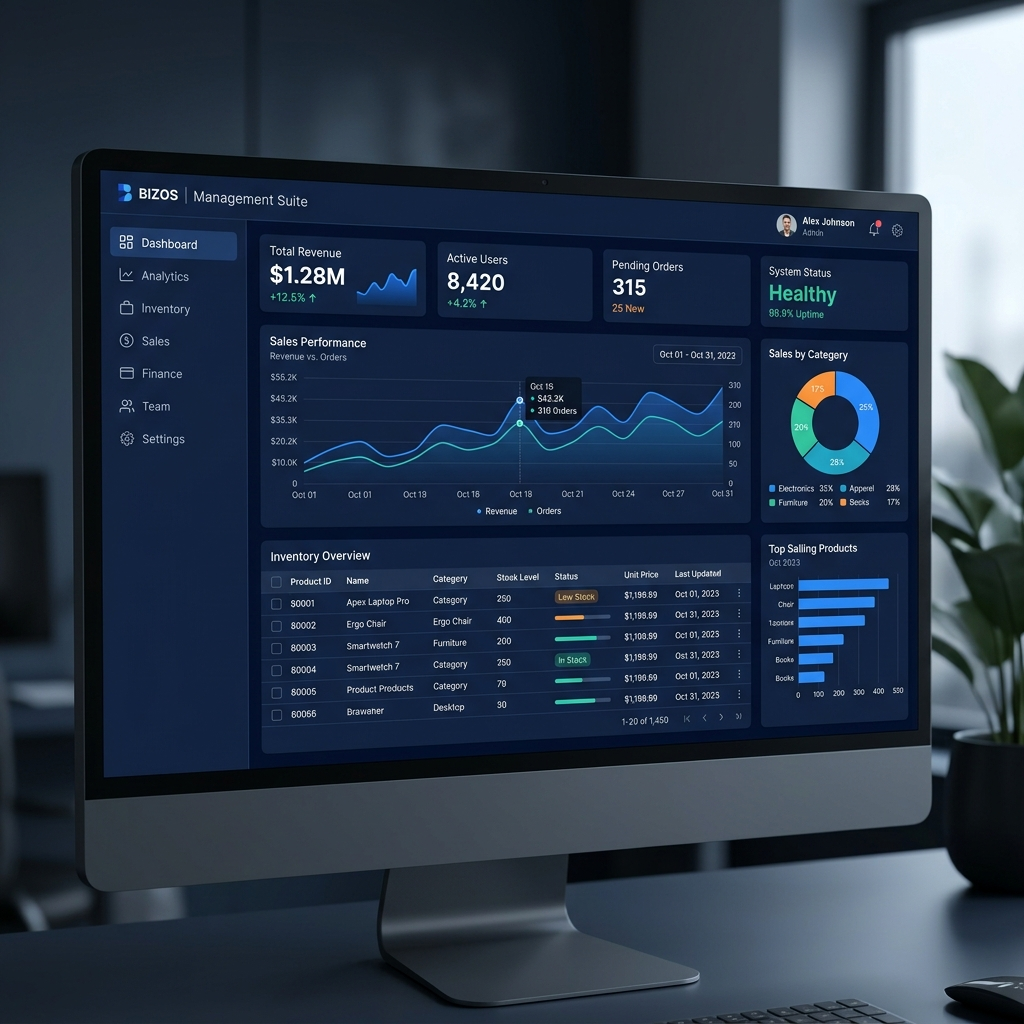
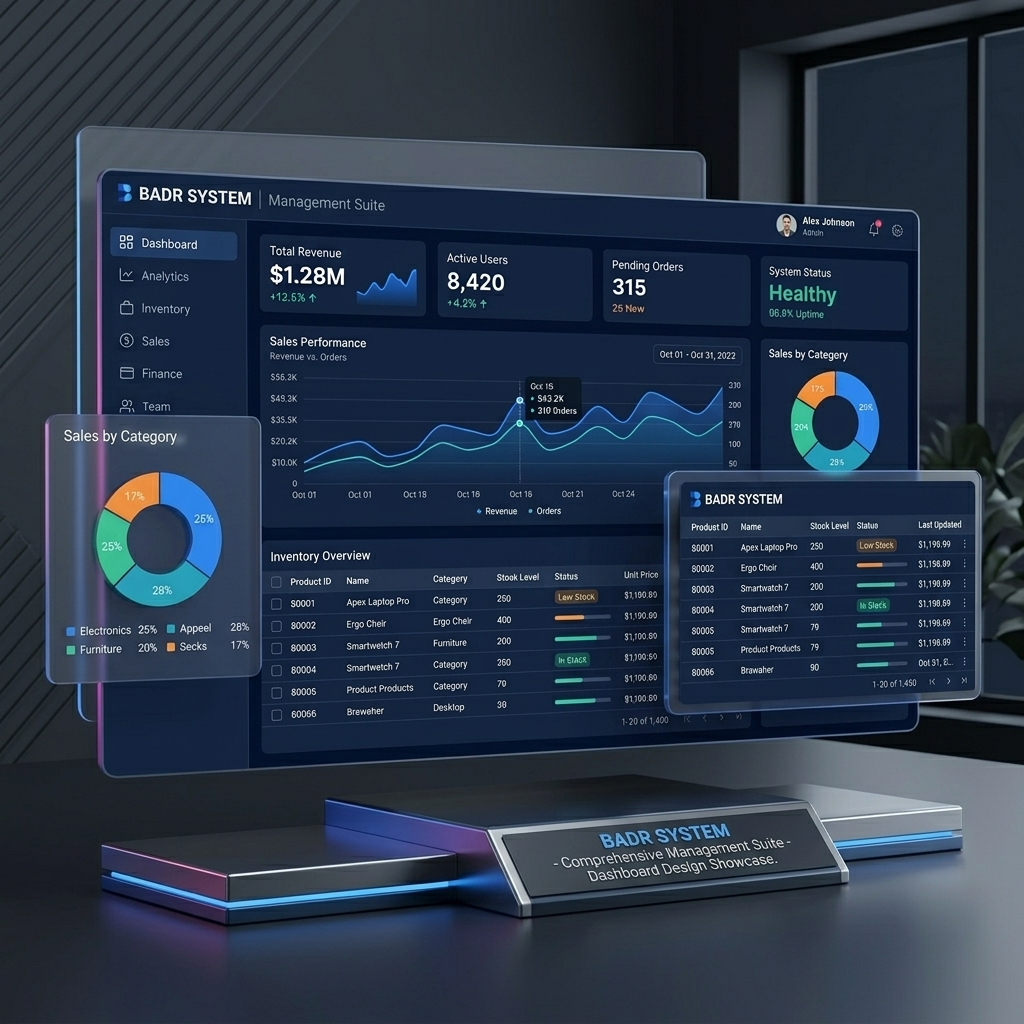
feat: upgrade technical skills section and update project showcases

diff --git a/index.html b/index.html
@@ -231,51 +231,64 @@
             <span>Expertise</span>
             <h2>Technical Skills</h2>
         </div>
-        <div class="skills-container reveal">
-            <div class="skill-card">
-                <i data-lucide="smartphone"></i>
-                <h3>Flutter Development</h3>
-                <p style="font-size: 0.8rem; color: var(--text-dim); margin-top: 0.5rem;">Android, iOS & Desktop</p>
+        <div class="skills-grid reveal">
+            <!-- Mobile Development -->
+            <div class="skill-category">
+                <h3><i data-lucide="smartphone"></i> Mobile & Frontend</h3>
+                <div class="skill-items">
+                    <div class="skill-item" data-color="#00f2ff">
+                        <i data-lucide="zap"></i>
+                        <span>Flutter</span>
+                    </div>
+                    <div class="skill-item" data-color="#00f2ff">
+                        <i data-lucide="code"></i>
+                        <span>Dart</span>
+                    </div>
+                    <div class="skill-item" data-color="#7000ff">
+                        <i data-lucide="sparkles"></i>
+                        <span>Animations</span>
+                    </div>
+                </div>
             </div>
-            <div class="skill-card">
-                <i data-lucide="code-2"></i>
-                <h3>Dart</h3>
-                <p style="font-size: 0.8rem; color: var(--text-dim); margin-top: 0.5rem;">OOP, Asynchronous Programming</p>
+
+            <!-- Architecture & State -->
+            <div class="skill-category">
+                <h3><i data-lucide="layers"></i> Architecture</h3>
+                <div class="skill-items">
+                    <div class="skill-item" data-color="#ff8c00">
+                        <i data-lucide="box"></i>
+                        <span>BLoC / Provider</span>
+                    </div>
+                    <div class="skill-item" data-color="#ff8c00">
+                        <i data-lucide="shield-check"></i>
+                        <span>Clean Architecture</span>
+                    </div>
+                    <div class="skill-item" data-color="#ff8c00">
+                        <i data-lucide="test-tube"></i>
+                        <span>Unit/Widget Tests</span>
+                    </div>
+                </div>
             </div>
-            <div class="skill-card">
-                <i data-lucide="layers"></i>
-                <h3>State Management</h3>
-                <p style="font-size: 0.8rem; color: var(--text-dim); margin-top: 0.5rem;">BLoC, Provider</p>
+
+            <!-- Backend & AI -->
+            <div class="skill-category">
+                <h3><i data-lucide="database"></i> Backend & AI</h3>
+                <div class="skill-items">
+                    <div class="skill-item" data-color="#3ecf8e">
+                        <i data-lucide="database"></i>
+                        <span>Supabase / Firebase</span>
+                    </div>
+                    <div class="skill-item" data-color="#3ecf8e">
+                        <i data-lucide="server"></i>
+                        <span>REST APIs / Dio</span>
+                    </div>
+                    <div class="skill-item" data-color="#00f2ff">
+                        <i data-lucide="cpu"></i>
+                        <span>TFLite AI</span>
+                    </div>
+                </div>
             </div>
-            <div class="skill-card">
-                <i data-lucide="sparkles"></i>
-                <h3>Animations & UI UX</h3>
-                <p style="font-size: 0.8rem; color: var(--text-dim); margin-top: 0.5rem;">Hero, CustomPaint, Liquid</p>
-            </div>
-            <div class="skill-card">
-                <i data-lucide="database"></i>
-                <h3>Supabase / Firebase</h3>
-                <p style="font-size: 0.8rem; color: var(--text-dim); margin-top: 0.5rem;">BaaS, Auth, Realtime DB</p>
-            </div>
-            <div class="skill-card">
-                <i data-lucide="server"></i>
-                <h3>REST APIs / Dio</h3>
-                <p style="font-size: 0.8rem; color: var(--text-dim); margin-top: 0.5rem;">JSON, Interceptors, CRUD</p>
-            </div>
-            <div class="skill-card">
-                <i data-lucide="bell"></i>
-                <h3>Push Notifications</h3>
-                <p style="font-size: 0.8rem; color: var(--text-dim); margin-top: 0.5rem;">OneSignal, Firebase FCM</p>
-            </div>
-            <div class="skill-card">
-                <i data-lucide="git-branch"></i>
-                <h3>Git & GitHub</h3>
-                <p style="font-size: 0.8rem; color: var(--text-dim); margin-top: 0.5rem;">Version Control, CI/CD</p>
-            </div>
-            <div class="skill-card">
-                <i data-lucide="cpu"></i>
-                <h3>TFLite Integration</h3>
-                <p style="font-size: 0.8rem; color: var(--text-dim); margin-top: 0.5rem;">On-device Machine Learning</p>
+        </div>
         <div class="tech-marquee reveal">
             <div class="marquee-content">
                 <span>FLUTTER</span>

diff --git a/style.css b/style.css
@@ -618,32 +618,100 @@ nav .container {
     font-weight: 600;
 }
 
-/* Skills Section */
-.skills-container {
+/* Skills Section Upgrade */
+.skills-grid {
     display: grid;
-    grid-template-columns: repeat(auto-fill, minmax(200px, 1fr));
-    gap: 1.5rem;
+    grid-template-columns: repeat(3, 1fr);
+    gap: 2.5rem;
+    margin-bottom: 4rem;
 }
 
-.skill-card {
-    background: var(--glass);
-    padding: 2rem;
-    border-radius: 16px;
+@media (max-width: 992px) {
+    .skills-grid {
+        grid-template-columns: 1fr;
+    }
+}
+
+.skill-category {
+    background: var(--bg-card);
+    backdrop-filter: blur(10px);
     border: 1px solid var(--glass-border);
-    text-align: center;
+    border-radius: 24px;
+    padding: 2.5rem;
     transition: var(--transition);
 }
 
-.skill-card:hover {
-    background: rgba(0, 229, 255, 0.05);
+.skill-category:hover {
     border-color: var(--primary);
+    transform: translateY(-10px);
+    box-shadow: 0 20px 40px rgba(0,0,0,0.4);
 }
 
-.skill-card i {
-    font-size: 2.5rem;
-    color: var(--primary);
-    margin-bottom: 1rem;
+.skill-category h3 {
+    font-size: 1.3rem;
+    margin-bottom: 2rem;
+    display: flex;
+    align-items: center;
+    gap: 0.8rem;
+    color: var(--white);
 }
+
+.skill-category h3 i {
+    color: var(--primary);
+}
+
+.skill-items {
+    display: flex;
+    flex-direction: column;
+    gap: 1.2rem;
+}
+
+.skill-item {
+    display: flex;
+    align-items: center;
+    gap: 1rem;
+    padding: 0.8rem 1.2rem;
+    background: var(--glass);
+    border-radius: 12px;
+    border: 1px solid transparent;
+    transition: var(--transition-fast);
+    cursor: default;
+}
+
+.skill-item i {
+    font-size: 1.2rem;
+    color: var(--text-dim);
+    transition: var(--transition-fast);
+}
+
+.skill-item span {
+    font-size: 0.95rem;
+    font-weight: 500;
+    color: var(--text-dim);
+    transition: var(--transition-fast);
+}
+
+.skill-item:hover {
+    border-color: var(--glass-border);
+    background: rgba(255, 255, 255, 0.05);
+}
+
+.skill-item:hover i {
+    color: var(--item-color, var(--primary));
+    transform: scale(1.2);
+}
+
+.skill-item:hover span {
+    color: var(--white);
+    transform: translateX(5px);
+}
+
+/* Dynamic Hover Colors */
+.skill-item[data-color="#00f2ff"] { --item-color: #00f2ff; }
+.skill-item[data-color="#7000ff"] { --item-color: #7000ff; }
+.skill-item[data-color="#ff8c00"] { --item-color: #ff8c00; }
+.skill-item[data-color="#3ecf8e"] { --item-color: #3ecf8e; }
+.skill-item[data-color="#f05032"] { --item-color: #f05032; }
 
 /* Tech Marquee */
 .tech-marquee {
